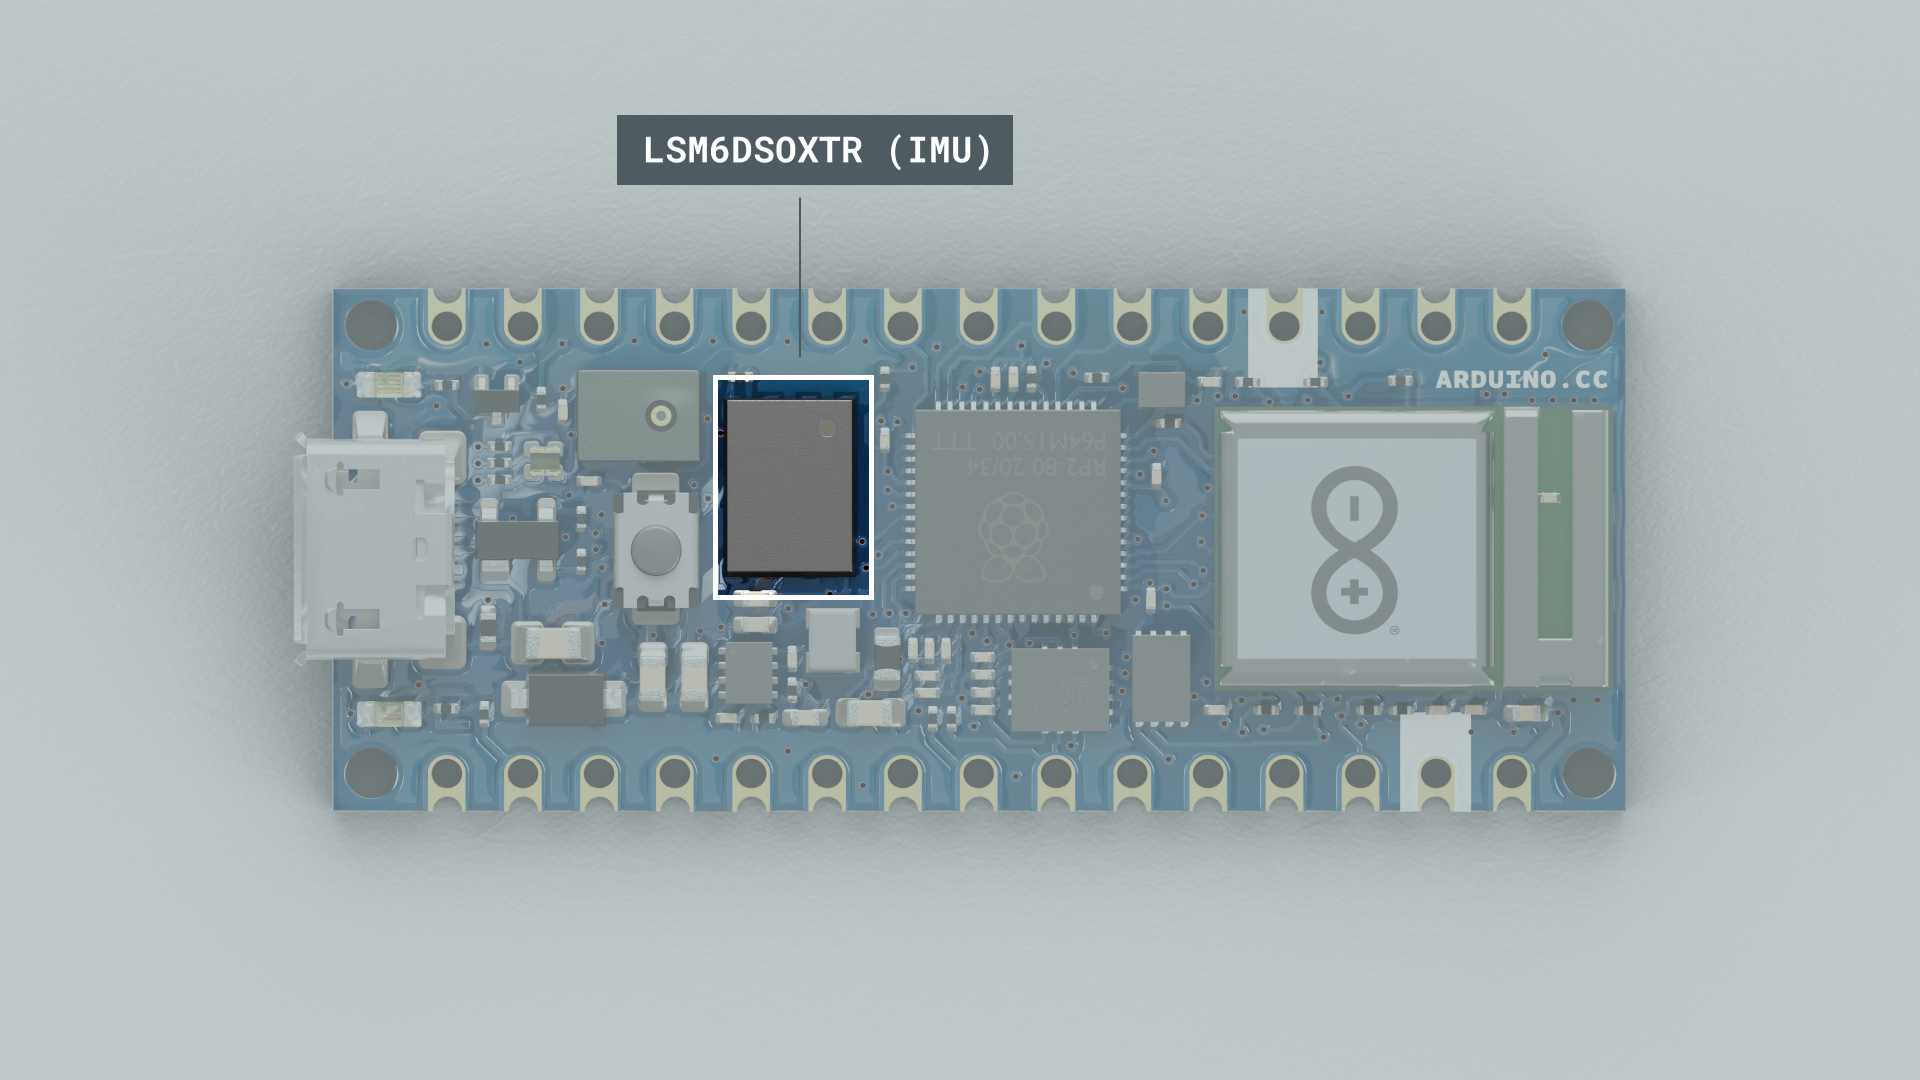
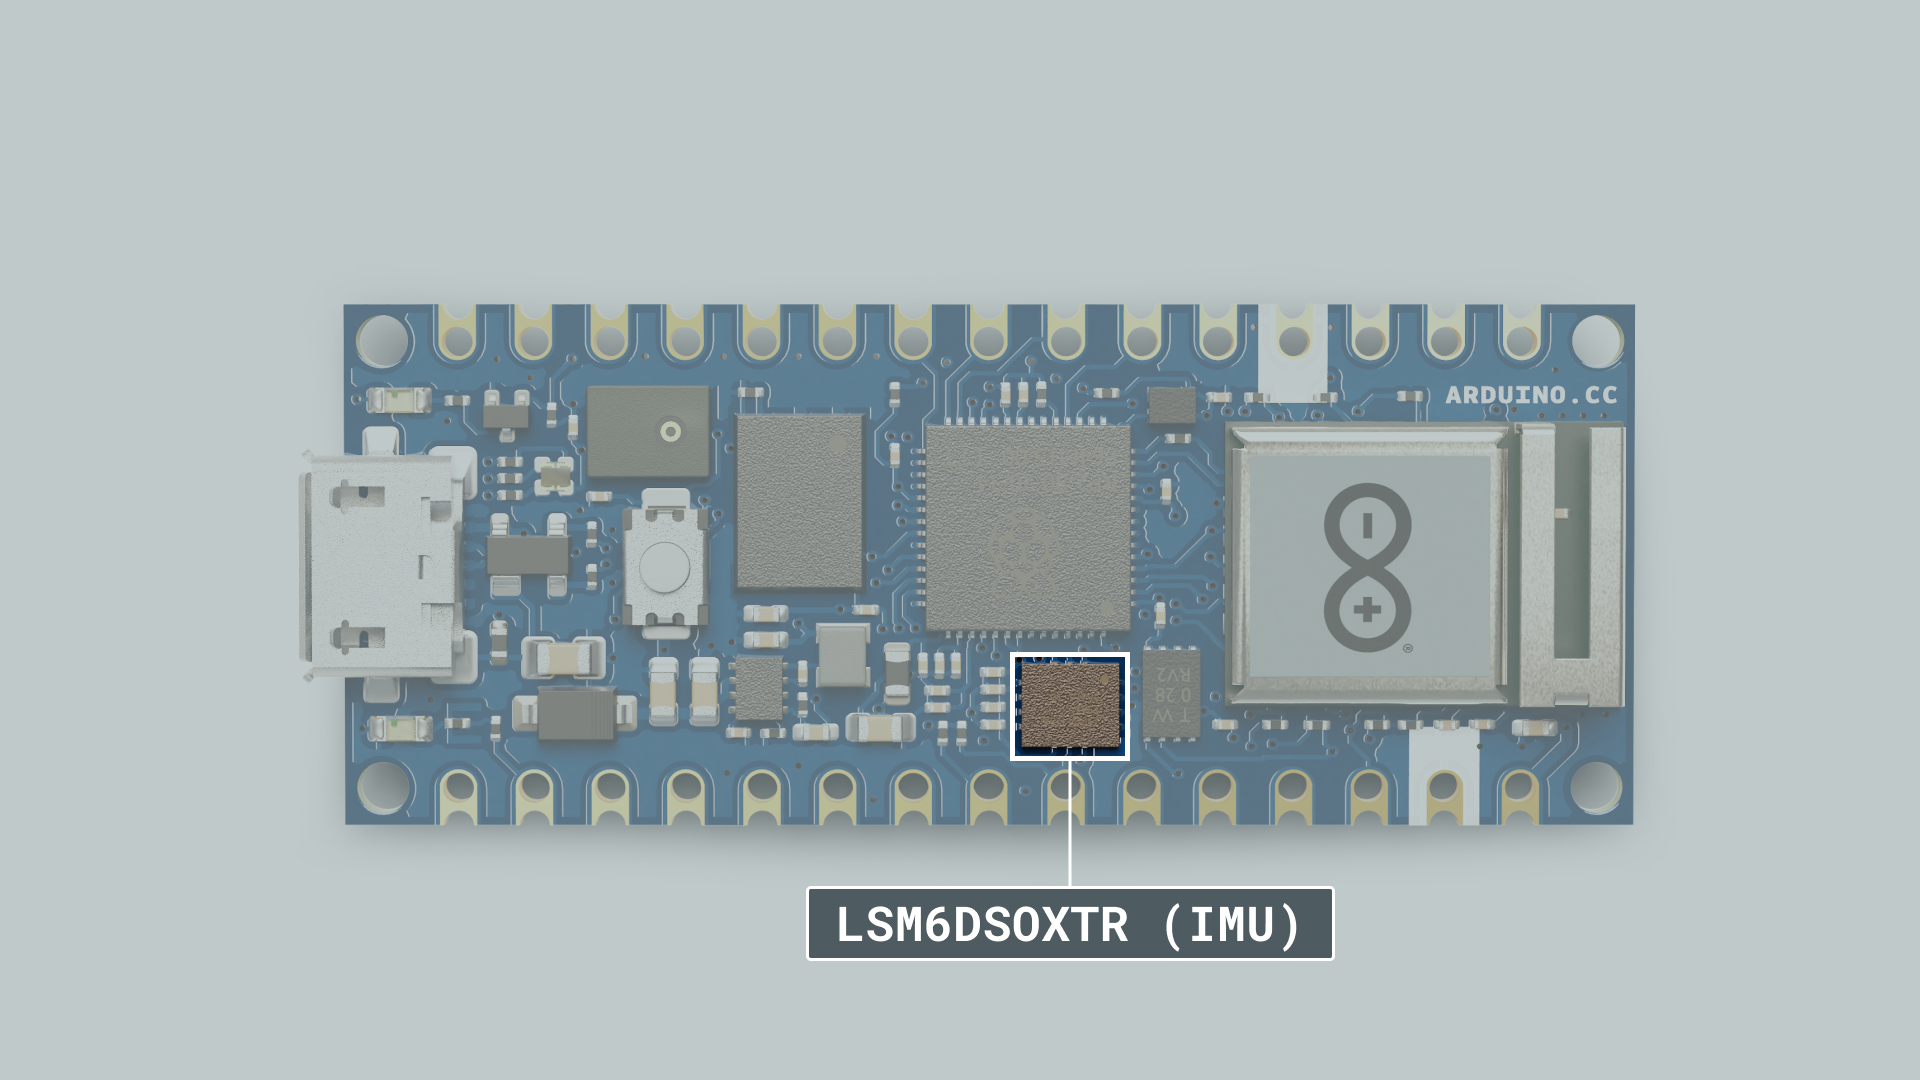
Updated image of IMU on board

Changed region(s): [[0.0938, 0.2139, 0.875, 0.7639], [0.4062, 0.7944, 0.7188, 0.9167], [0.3125, 0.0917, 0.5312, 0.1833]]

diff --git a/content/hardware/03.nano/boards/nano-rp2040-connect/tutorials/rp2040-openmv-mlc/rp2040-openmv-mlc.md b/content/hardware/03.nano/boards/nano-rp2040-connect/tutorials/rp2040-openmv-mlc/rp2040-openmv-mlc.md
@@ -46,7 +46,7 @@ An Inertial Measurement Unit (IMU) is a device that can measure an object's spec
 
 IMU's are typically used to capture **movement** data of a device or a system. The onboard IMU of the Nano RP2040 Connect, the LSM6DSOX from STMicroelectronics®, has an embedded hardware processing engine dedicated to real-time machine learning computing; this means that some machine learning algorithms were moved from the application processor to the LSM6DSOX directly. STMicroelectronics named this embedded processing engine of the LSM6DSOX **Machine Learning Core** (MLC).
 
-![The LSM6DSOX Inertial Measurement Unit (IMU).](assets/rp2040-openmv-mlc_img01.png)
+![The LSM6DSOX Inertial Measurement Unit (IMU).](assets/rp2040-imu-basics-img-02.png)
 
 In the MLC, machine learning processing is implemented through a **decision-tree** logic. A decision tree is a mathematical tool composed of a series of configurable nodes; each node is characterized by an "if-then-else" condition where an input signal (represented by statistical parameters calculated from the sensor data) is evaluated against a certain threshold. The decision tree results can be read from the application processor at any time and there is also the possibility to generate an interrupt for every change in the result in the decision tree.
 

diff --git a/content/hardware/03.nano/boards/nano-rp2040-connect/tutorials/rp2040-01-technical-reference/rp2040-01-technical-reference.md b/content/hardware/03.nano/boards/nano-rp2040-connect/tutorials/rp2040-01-technical-reference/rp2040-01-technical-reference.md
@@ -189,7 +189,7 @@ The VUSB pin is located on the bottom of the board. The pads on the Arduino RP20
 
 ## IMU
 
-![The LSM6DSOXTR sensor](assets/LSM6DSOXTR-NANORP2040CONNECT.png)
+![The LSM6DSOXTR sensor](assets/rp2040-imu-basics-img-02.png)
 
 ### LSM6DSOXTR
 
